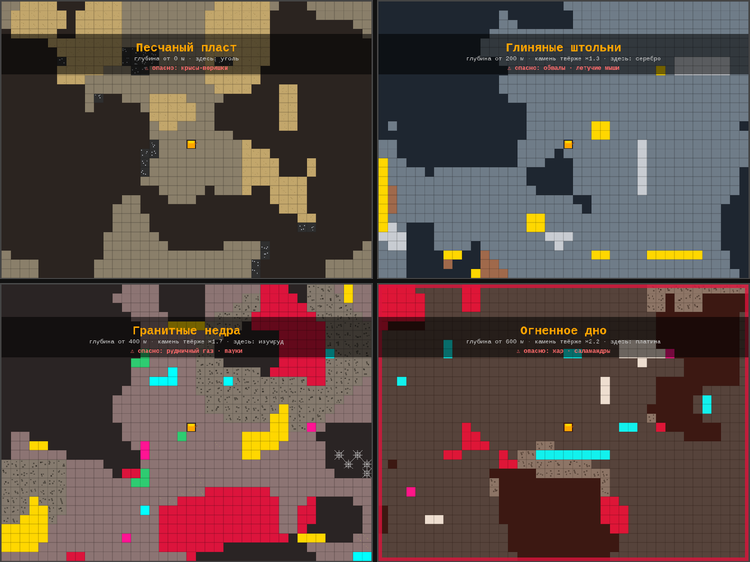
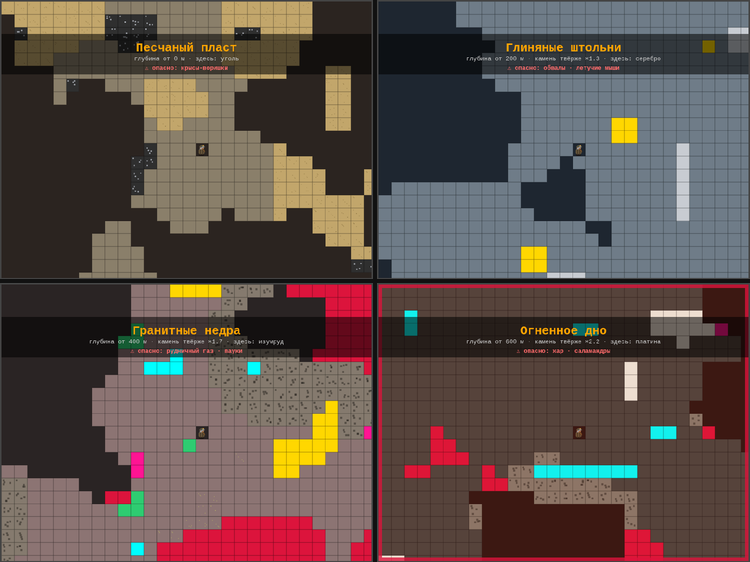
docs: CHANGELOG и README к выпуску 2.1.0
Assisted-by: Claude (Anthropic)

diff --git a/miner-1899.html b/miner-1899.html
@@ -4812,13 +4812,16 @@
 
         // Обновление камеры
         function updateCamera() {
-            camera.x = Math.floor(player.x - VIEWPORT_WIDTH / 2);
-            camera.y = Math.floor(player.y - VIEWPORT_HEIGHT / 2);
+            // сколько блоков на экране на самом деле (при масштабе — дробное число):
+            // у края мира камера встаёт так, чтобы край был виден целиком
+            const visW = LW / (TILE_SIZE * ZOOM), visH = LH / (TILE_SIZE * ZOOM);
+            camera.x = Math.floor(player.x - visW / 2);
+            camera.y = Math.floor(player.y - visH / 2);
 
+            if (camera.x > WORLD_WIDTH - visW) camera.x = WORLD_WIDTH - visW;
+            if (camera.y > WORLD_HEIGHT - visH) camera.y = WORLD_HEIGHT - visH;
             if (camera.x < 0) camera.x = 0;
             if (camera.y < 0) camera.y = 0;
-            if (camera.x > WORLD_WIDTH - VIEWPORT_WIDTH) camera.x = WORLD_WIDTH - VIEWPORT_WIDTH;
-            if (camera.y > WORLD_HEIGHT - VIEWPORT_HEIGHT) camera.y = WORLD_HEIGHT - VIEWPORT_HEIGHT;
         }
 
         // ============ СПРАЙТЫ (SVG) ============
@@ -5103,10 +5106,14 @@
             ctx.save();
             if (ctx.scale) ctx.scale(ZOOM, ZOOM);
 
-            for (let y = 0; y < VIEWPORT_HEIGHT; y++) {
-                for (let x = 0; x < VIEWPORT_WIDTH; x++) {
-                    const worldX = x + camera.x;
-                    const worldY = y + camera.y;
+            // камера может стоять между клетками (у края мира) — сдвигаем сетку
+            const camX = Math.floor(camera.x), camY = Math.floor(camera.y);
+            ctx.save();
+            if (ctx.translate) ctx.translate(-(camera.x - camX) * TILE_SIZE, -(camera.y - camY) * TILE_SIZE);
+            for (let y = 0; y <= VIEWPORT_HEIGHT; y++) {
+                for (let x = 0; x <= VIEWPORT_WIDTH; x++) {
+                    const worldX = x + camX;
+                    const worldY = y + camY;
                     const block = getBlock(worldX, worldY);
 
                     if (isClimbable(block) || block === BLOCK_TYPES.WEB) {
@@ -5180,6 +5187,8 @@
                     }
                 }
             }
+
+            ctx.restore();
 
             renderShop();
             renderDigProgress();

diff --git a/sprites.test.js b/sprites.test.js
@@ -108,7 +108,14 @@ check('в настройках три кнопки масштаба', /data-zoom
 g.run('setZoom(28); generateWorld(5); player.x = 2; player.y = 50; updateCamera();');
 check('камера не выезжает за край мира', g.run('camera.x') === 0);
 g.run('player.x = WORLD_WIDTH - 1; updateCamera();');
-check('и за правый край', g.run('camera.x') === g.run('WORLD_WIDTH - VIEWPORT_WIDTH'));
+check('у правого края мира край виден целиком (камера между клетками)', Math.abs(g.run('(WORLD_WIDTH - camera.x) * TILE_SIZE * ZOOM') - g.run('LW')) < 1e-6);
+g.run('player.y = WORLD_HEIGHT - 2; updateCamera();');
+check('и нижний край — дно мира', Math.abs(g.run('(WORLD_HEIGHT - camera.y) * TILE_SIZE * ZOOM') - g.run('LH')) < 1e-6);
+g.run('setZoom(36); player.x = WORLD_WIDTH - 1; updateCamera();');
+check('на крупном масштабе тоже', Math.abs(g.run('(WORLD_WIDTH - camera.x) * TILE_SIZE * ZOOM') - g.run('LW')) < 1e-6);
+g.run('setZoom(20); player.x = WORLD_WIDTH - 1; updateCamera();');
+check('на мелком камера по-прежнему по целым клеткам', Number.isInteger(g.run('camera.x')));
+g.run('setZoom(28);');
 
 console.log('Чёткость');
 g = boot({ dpr: 2 });

diff --git a/CHANGELOG.md b/CHANGELOG.md
@@ -7,18 +7,25 @@
 
 ## [Unreleased]
 
+### Планируется
+- Английская версия игры, README и сайта (v2.2.0)
+- Звуки (v2.3.0)
+- Подробнее — в [ROADMAP.md](ROADMAP.md)
+
+## [2.1.0] — 2026-10-22
+
 ### Добавлено
 - **SVG-спрайты** шахтёра и тварей вместо простых фигур, с анимацией: шахтёр стоит, идёт (4 кадра), копает киркой или лопатой (мягкую породу), лезет; канарейка — в клетке за плечом, в тревоге бьёт крыльями; крыса бежит, летучая мышь летит и спит вниз головой, паук ползёт, саламандра ползёт и прячется в лаве (видны глаза). Кадры растеризуются один раз под размер клетки — чётко и быстро. Пока картинки не загрузились, рисуются прежние фигуры
 - В том же стиле перерисованы **лавка** (бревенчатый сруб со светящимися окнами), **лестницы**, **верёвки** (узел на нижнем конце), **переправа**, **паутина** и **огненные плевки** саламандры
-- **Масштаб** в настройках: мелко (20 px), **средне (28 px, по умолчанию)**, крупно (36 px)
+- **Масштаб** в настройках: мелко (20 px), **средне (28 px, по умолчанию)**, крупно (36 px). У края мира камера встаёт так, что край виден целиком — и сбоку, и дно
 - **Чёткость** на экранах с высокой плотностью пикселей: холст рисуется в 1.25–2 раза подробнее
-- `sprites.test.js` — 45 проверок
+- `sprites.test.js` — 48 проверок
 - `CONTRIBUTING.md` — правила проекта: как сообщить об ошибке и прислать исправление, тесты, коммиты, версии и выпуски, названия, лицензия
 - Страница выпуска на GitHub создаётся сама: при отправке тега GitHub Actions берёт описание из CHANGELOG и прикладывает `miner-1899.html`. Для старых версий — запуск вручную во вкладке Actions
 
-### Планируется
-- Английская версия игры, README и сайта
-- Подробнее — в [ROADMAP.md](ROADMAP.md)
+### Изменено
+- Сайт переехал: **https://z0rd4n0v1ch.github.io/m1899/** (репозиторий сайта — `m1899`); ссылки в README, `TELEGRAM.md` и на сайте обновлены
+- Скриншоты в README и на сайте сняты заново с версии 2.1.0 — уже со спрайтами
 
 ## [2.0.0] — 2026-10-21
 
@@ -310,7 +317,8 @@
 - Камера, следующая за игроком
 - Легенда блоков в интерфейсе
 
-[Unreleased]: https://github.com/Z0rD4n0v1ch/miner-1899/compare/v2.0.0...HEAD
+[Unreleased]: https://github.com/Z0rD4n0v1ch/miner-1899/compare/v2.1.0...HEAD
+[2.1.0]: https://github.com/Z0rD4n0v1ch/miner-1899/compare/v2.0.0...v2.1.0
 [2.0.0]: https://github.com/Z0rD4n0v1ch/miner-1899/compare/v1.8.0...v2.0.0
 [1.8.0]: https://github.com/Z0rD4n0v1ch/miner-1899/compare/v1.7.2...v1.8.0
 [1.7.2]: https://github.com/Z0rD4n0v1ch/miner-1899/compare/v1.7.1...v1.7.2

diff --git a/README.md b/README.md
@@ -508,7 +508,7 @@ miner-1899/
 
 Проект следует [SemVer](https://semver.org/lang/ru/). Две версии ведутся раздельно:
 
-- `GAME_VERSION` — версия игры, растёт при любом обновлении. Сейчас `2.0.0`.
+- `GAME_VERSION` — версия игры, растёт при любом обновлении. Сейчас `2.1.0`.
 - `SAVE_VERSION` — версия **формата сохранений**. Повышается только если меняется формат данных. Сейчас `10`.
 
 Когда `SAVE_VERSION` растёт, старые сохранения по возможности переводятся в новый формат, а не выбрасываются. Старые сохранения (версии 2–9) загружаются автоматически (купленная раньше лампа становится открытой, характеристики — с первого уровня, цель — свободная игра, режим — обычный): мир, позиция и очки переносятся, недостающее выдаётся по умолчанию — пустой рюкзак, ржавая кирка, без лопаты и без долга, 10 лестниц. Мягкой породы в старых мирах нет: она появляется только в новых. Сохранения версии 1 не поддерживаются.
